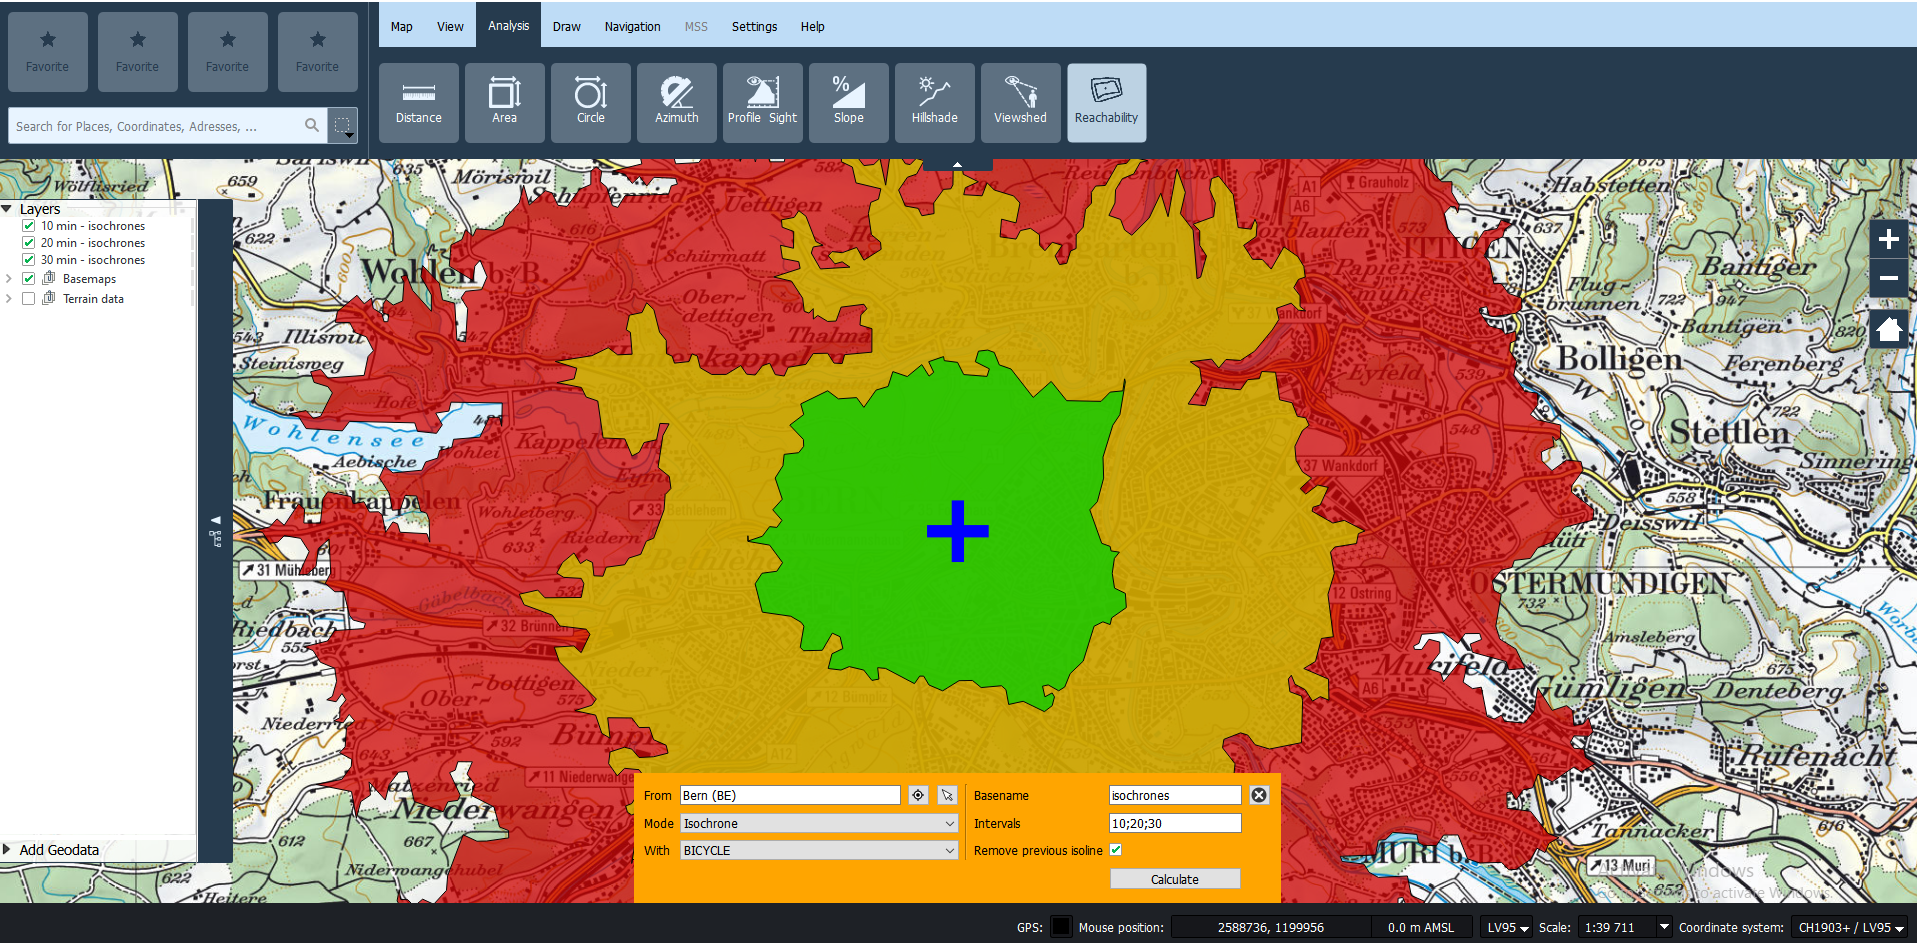
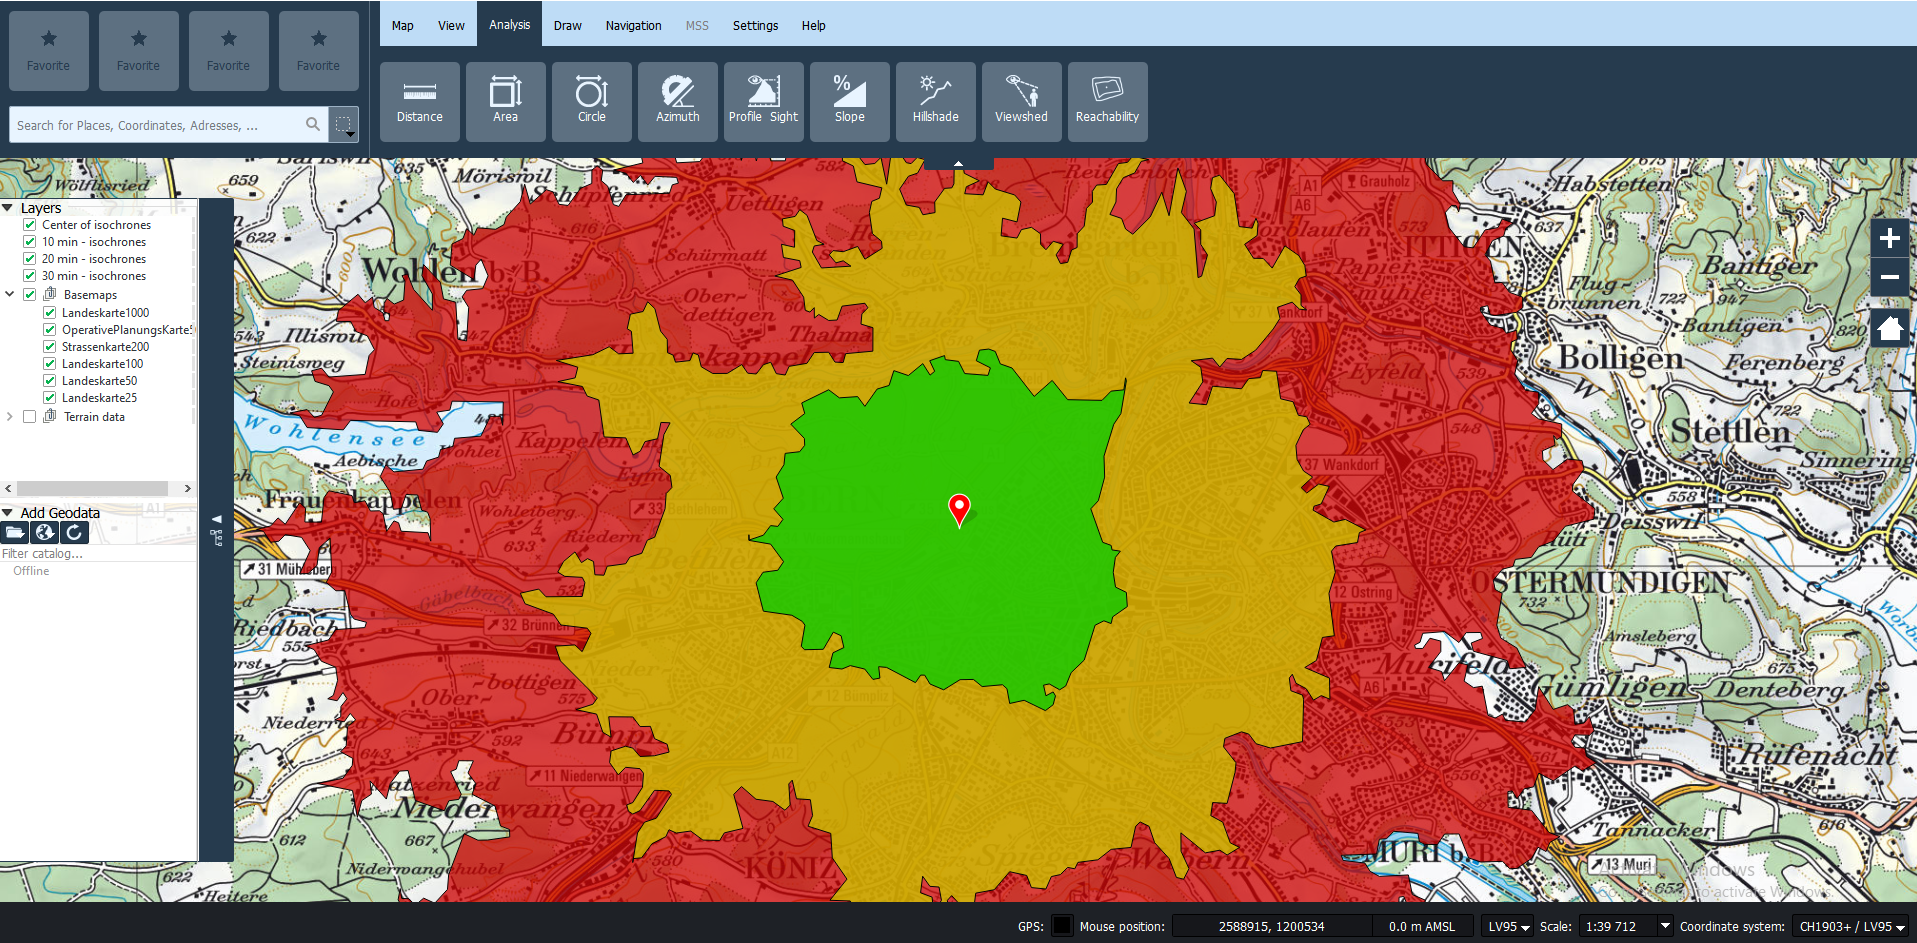
Update reachability result.

diff --git a/manual/en/routing_plugin.md b/manual/en/routing_plugin.md
@@ -188,7 +188,9 @@ An example of a reachability result is shown in the following image
 
 <img src="../images/routing_plugin/reachability_result.png" />
 
-The Routing Plugin will create several polygon layers based on the number of intervals set in the reachability calculation. The layer naming format is [interval][unit] - [basename], in the example above is *10 min - isochrones*, *20 min - isochrones*, and *30 min isochrones*. Each layer indicates the area that can be reached based on the interval, e.g. 10 minutes from the center.
+The Routing Plugin will create two kinds of layers as the output. The first one is a point layer to indicate the center of the reachability. It will be shown as a red pin. It will be named with this naming format "Center of [basename]".
+
+The other output is several polygon layers. The number of layers corresponds with the number of intervals. The polygon layer naming format is [interval][unit] - [basename], in the example above is *10 min - isochrones*, *20 min - isochrones*, and *30 min isochrones*. Each polygon layer indicates the area that can be reached based on the interval, e.g. 10 minutes from the center and a specific color from greenish to reddish.
 
 ## Data Catalogue
 
